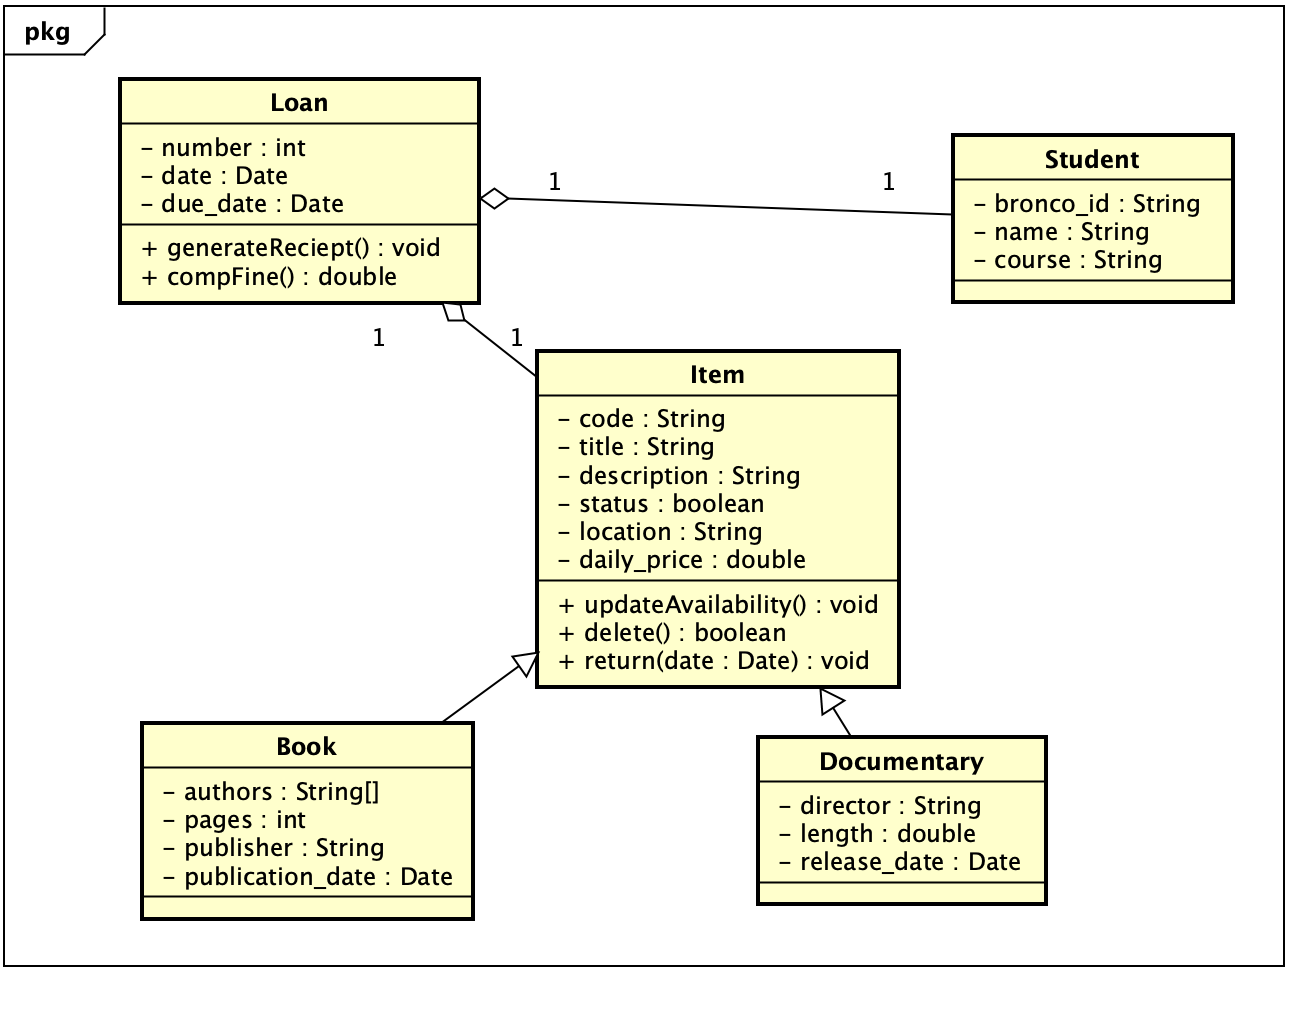
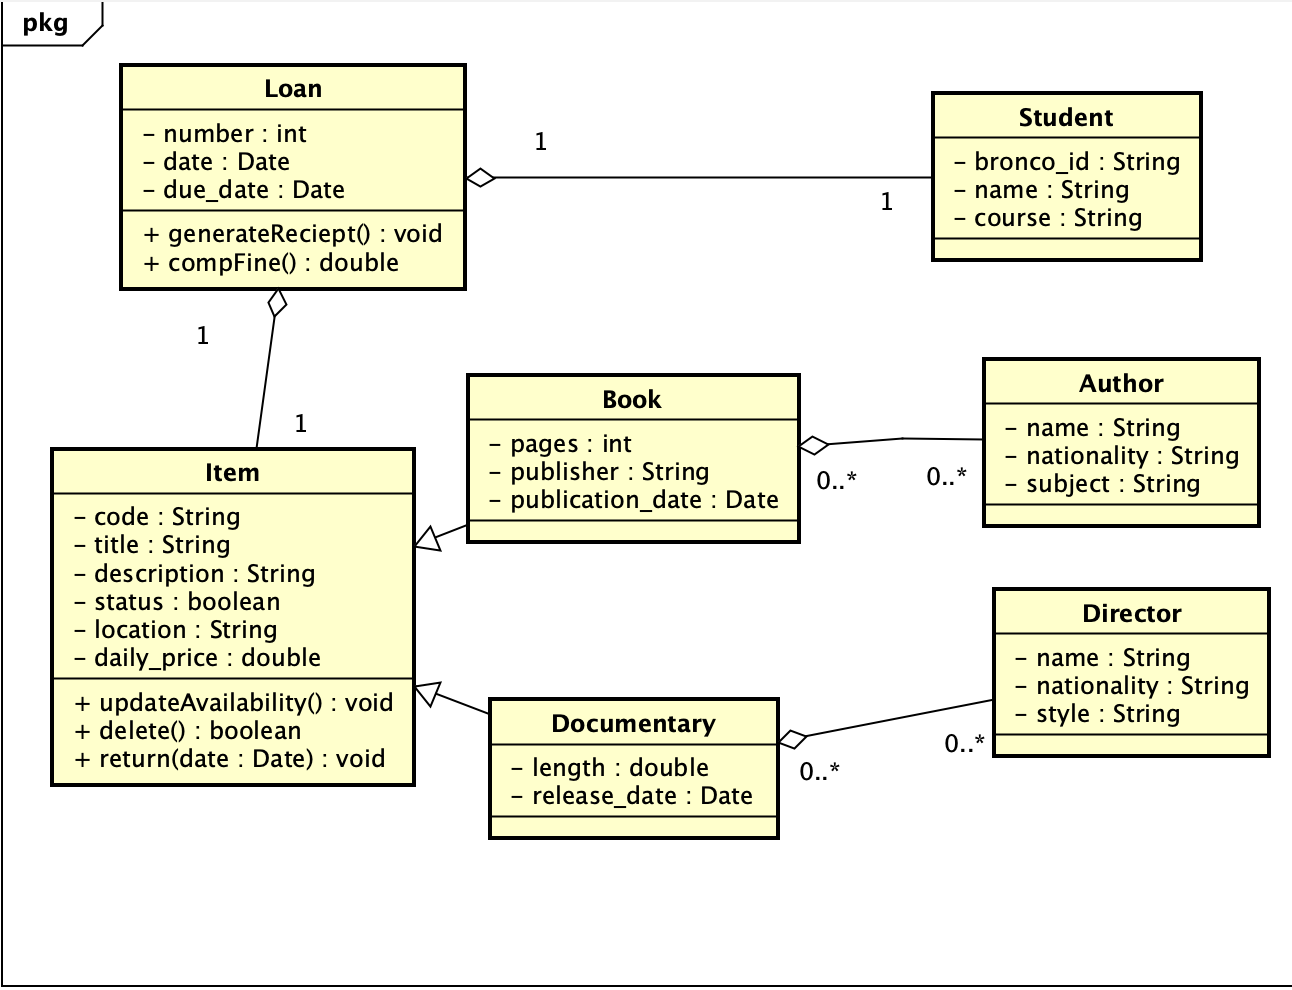
Add Author and Director class

diff --git a/src/main/java/entity/Book.java b/src/main/java/entity/Book.java
@@ -11,8 +11,6 @@ import java.util.Objects;
 public class Book {
 
 
-    @Column(name = "authors", columnDefinition = "text[]")
-    private String authors;
     @Basic
     @Column(name = "pages")
     private Integer pages;
@@ -26,16 +24,22 @@ public class Book {
     @OneToOne(cascade = CascadeType.ALL)
     @JoinColumn(name = "item_code", referencedColumnName = "code", nullable = false)
     private Item itemByItemCode;
-
-    public Book(String authors, Integer pages, String publisher, Date publicationDate)
+    @GeneratedValue(strategy = GenerationType.IDENTITY)
+    @Id
+    @Column(name = "item_code")
+    private String itemCode;
+    @ManyToOne(cascade = CascadeType.ALL)
+    @JoinColumn(name = "authors", referencedColumnName = "name")
+    private Author authorByAuthors;
+    public Book(Integer pages, String publisher, Date publicationDate)
     {
-        this.authors = authors;
         this.pages = pages;
         this.publisher = publisher;
         this.publicationDate = publicationDate;
     }
 
     public Book(){}
+
     public String getItemCode() {
         return itemByItemCode.getCode();
     }
@@ -44,13 +48,6 @@ public class Book {
         this.itemByItemCode.setCode(itemCode);
     }
 
-    public Object getAuthors() {
-        return authors;
-    }
-
-    public void setAuthors(String authors) {
-        this.authors = authors;
-    }
 
     public Integer getPages() {
         return pages;
@@ -81,10 +78,8 @@ public class Book {
         if (this == o) return true;
         if (o == null || getClass() != o.getClass()) return false;
         Book book = (Book) o;
-        return Objects.equals(itemByItemCode, book.itemByItemCode) && Objects.equals(authors, book.authors) && Objects.equals(pages, book.pages) && Objects.equals(publisher, book.publisher) && Objects.equals(publicationDate, book.publicationDate);
+        return Objects.equals(itemByItemCode, book.itemByItemCode)  && Objects.equals(pages, book.pages) && Objects.equals(publisher, book.publisher) && Objects.equals(publicationDate, book.publicationDate);
     }
-
-
 
     public Item getItemByItemCode() {
         return itemByItemCode;
@@ -92,5 +87,18 @@ public class Book {
 
     public void setItemByItemCode(Item itemByItemCode) {
         this.itemByItemCode = itemByItemCode;
+    }
+
+    @Override
+    public int hashCode() {
+        return Objects.hash(itemCode, pages, publisher, publicationDate);
+    }
+
+    public Author getAuthorByAuthors() {
+        return authorByAuthors;
+    }
+
+    public void setAuthorByAuthors(Author authorByAuthors) {
+        this.authorByAuthors = authorByAuthors;
     }
 }

diff --git a/src/main/java/entity/Documentary.java b/src/main/java/entity/Documentary.java
@@ -11,9 +11,7 @@ public class Documentary {
     @Id
     @Column(name = "item_code")
     private String itemCode;
-    @Basic
-    @Column(name = "director")
-    private String director;
+
     @Basic
     @Column(name = "length")
     private Integer length;
@@ -23,15 +21,17 @@ public class Documentary {
     @OneToOne
     @JoinColumn(name = "item_code", referencedColumnName = "code", nullable = false)
     private Item itemByItemCode;
+    @ManyToOne(cascade = CascadeType.ALL)
+    @JoinColumn(name = "director", referencedColumnName = "name")
+    private Director directorByDirector;
 
-    public Documentary(String director, Integer length, Date releaseDate)
+    public Documentary(Integer length, Date releaseDate)
     {
-        this.director = director;
         this.length = length;
         this.releaseDate = releaseDate;
     }
-
     public Documentary(){}
+
     public String getItemCode() {
         return itemCode;
     }
@@ -40,13 +40,6 @@ public class Documentary {
         this.itemCode = itemCode;
     }
 
-    public String getDirector() {
-        return director;
-    }
-
-    public void setDirector(String director) {
-        this.director = director;
-    }
 
     public Integer getLength() {
         return length;
@@ -69,12 +62,12 @@ public class Documentary {
         if (this == o) return true;
         if (o == null || getClass() != o.getClass()) return false;
         Documentary that = (Documentary) o;
-        return Objects.equals(itemCode, that.itemCode) && Objects.equals(director, that.director) && Objects.equals(length, that.length) && Objects.equals(releaseDate, that.releaseDate);
+        return Objects.equals(itemCode, that.itemCode)  && Objects.equals(length, that.length) && Objects.equals(releaseDate, that.releaseDate);
     }
 
     @Override
     public int hashCode() {
-        return Objects.hash(itemCode, director, length, releaseDate);
+        return Objects.hash(itemCode, length, releaseDate);
     }
 
     public Item getItemByItemCode() {
@@ -83,5 +76,13 @@ public class Documentary {
 
     public void setItemByItemCode(Item itemByItemCode) {
         this.itemByItemCode = itemByItemCode;
+    }
+
+    public Director getDirectorByDirector() {
+        return directorByDirector;
+    }
+
+    public void setDirectorByDirector(Director directorByDirector) {
+        this.directorByDirector = directorByDirector;
     }
 }

diff --git a/src/main/java/entity/Author.java b/src/main/java/entity/Author.java
@@ -1,0 +1,56 @@
+package entity;
+
+import jakarta.persistence.*;
+
+import java.util.Objects;
+
+@Entity
+public class Author {
+    @GeneratedValue(strategy = GenerationType.IDENTITY)
+    @Id
+    @Column(name = "name")
+    private String name;
+    @Basic
+    @Column(name = "nationality")
+    private String nationality;
+    @Basic
+    @Column(name = "subject")
+    private String subject;
+
+    public String getName() {
+        return name;
+    }
+
+    public void setName(String name) {
+        this.name = name;
+    }
+
+    public String getNationality() {
+        return nationality;
+    }
+
+    public void setNationality(String nationality) {
+        this.nationality = nationality;
+    }
+
+    public String getSubject() {
+        return subject;
+    }
+
+    public void setSubject(String subject) {
+        this.subject = subject;
+    }
+
+    @Override
+    public boolean equals(Object o) {
+        if (this == o) return true;
+        if (o == null || getClass() != o.getClass()) return false;
+        Author author = (Author) o;
+        return Objects.equals(name, author.name) && Objects.equals(nationality, author.nationality) && Objects.equals(subject, author.subject);
+    }
+
+    @Override
+    public int hashCode() {
+        return Objects.hash(name, nationality, subject);
+    }
+}

diff --git a/src/main/java/entity/Director.java b/src/main/java/entity/Director.java
@@ -1,0 +1,56 @@
+package entity;
+
+import jakarta.persistence.*;
+
+import java.util.Objects;
+
+@Entity
+public class Director {
+    @GeneratedValue(strategy = GenerationType.IDENTITY)
+    @Id
+    @Column(name = "name")
+    private String name;
+    @Basic
+    @Column(name = "nationality")
+    private String nationality;
+    @Basic
+    @Column(name = "style")
+    private String style;
+
+    public String getName() {
+        return name;
+    }
+
+    public void setName(String name) {
+        this.name = name;
+    }
+
+    public String getNationality() {
+        return nationality;
+    }
+
+    public void setNationality(String nationality) {
+        this.nationality = nationality;
+    }
+
+    public String getStyle() {
+        return style;
+    }
+
+    public void setStyle(String style) {
+        this.style = style;
+    }
+
+    @Override
+    public boolean equals(Object o) {
+        if (this == o) return true;
+        if (o == null || getClass() != o.getClass()) return false;
+        Director director = (Director) o;
+        return Objects.equals(name, director.name) && Objects.equals(nationality, director.nationality) && Objects.equals(style, director.style);
+    }
+
+    @Override
+    public int hashCode() {
+        return Objects.hash(name, nationality, style);
+    }
+}
